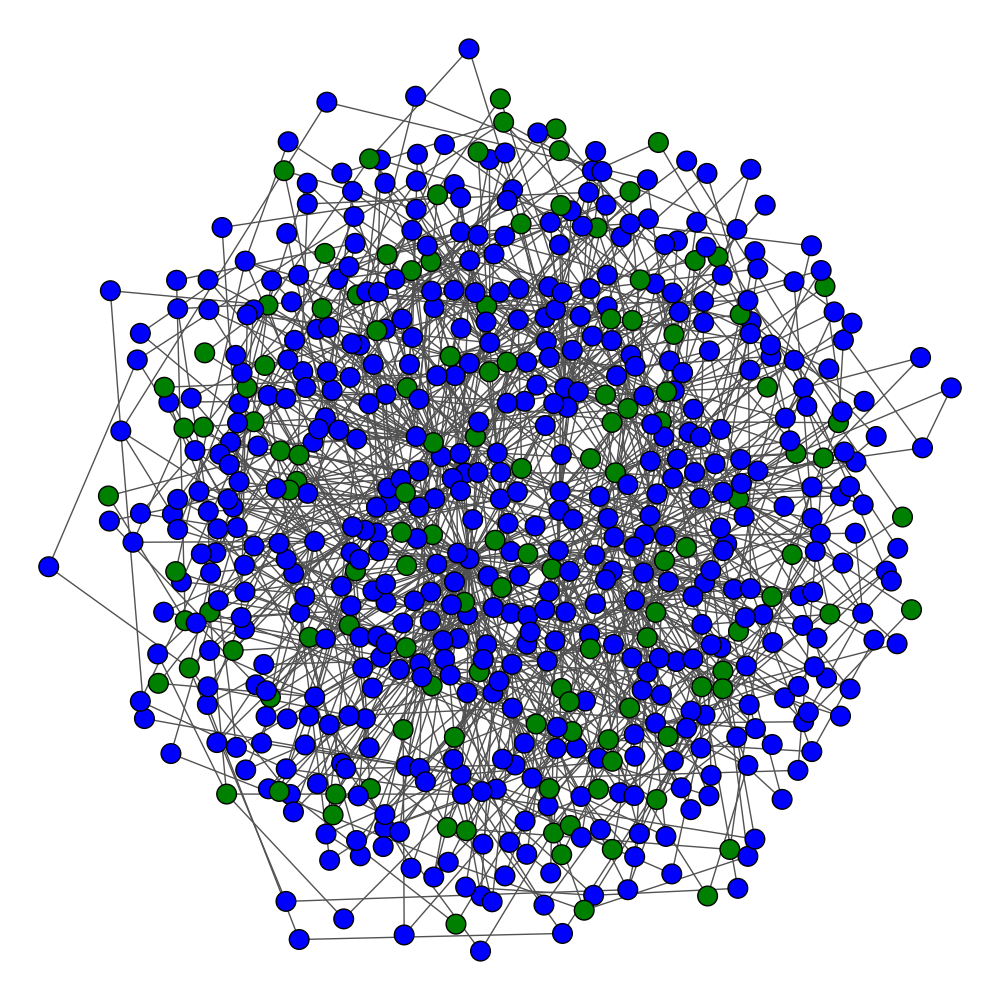
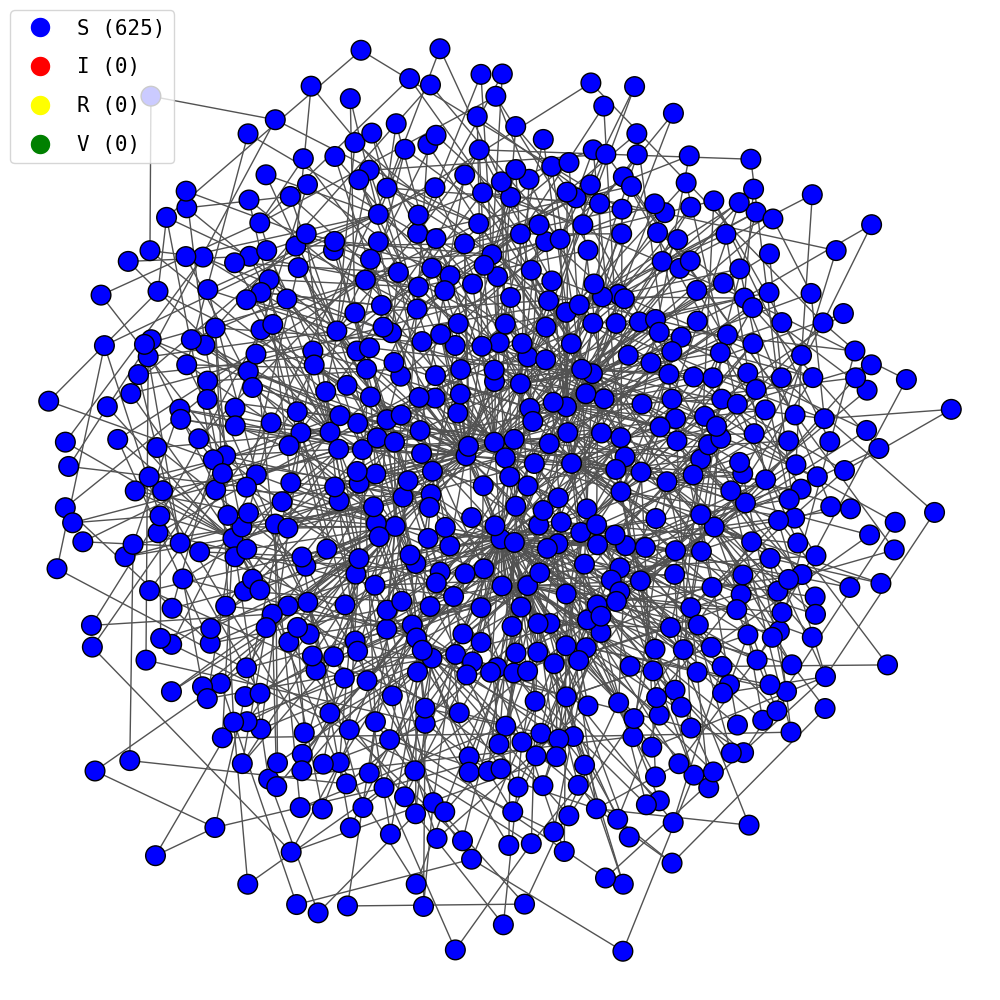
backup changes

diff --git a/proj2/generate_figures.py b/proj2/generate_figures.py
@@ -6,6 +6,11 @@ import graph_modifier as gm
 import networkx as nx
 import time
 import math
+import json
+import pickle
+import matplotlib as mpl
+from matplotlib.lines import Line2D
+mpl.rc('font',family='monospace')
 
 SUSC = 'S'
 INF = 'I'
@@ -16,50 +21,123 @@ network_dict = {
     'ba': lambda n: nx.barabasi_albert_graph(n,2),
     'dms':  gg.create_DMS
 }
-networks = ['ba'] #['ba', 'dms']
+NETWORK = 'dms'
+networks = [NETWORK] #['ba', 'dms']
 betas = [2]#[1.0, 2.0, 4.0, 8.0, 16.0, 32.0]
-Ns = [625] #625, 1250, 2500, 5000, 10000]
+Ns = [10000] #625, 1250, 2500, 5000, 10000]
 frac_vacs = [0.2]#[0, 0.1, 0.2, 0.3, 0.4, 0.5, 0.6, 0.7, 0.8]
 vaccination_methods = [
-#    'hub',
+    'hub',
 #    'realbfs',
 #    'dfs',
 #    'bfs',
-    'rnd',
-    'rdw',
-    'acq'
+#    'rnd',
+#    'rdw',
+#    'acq'
 ]
 gamma = 3
 
-def draw_graph(g, my_pos, filename):
+def draw_graph(g, my_pos, filename, iter_sim = -1):
     d = dict(g.degree)
     color_map = []
+    states = [0,0,0,0] # VAC INF REC SUSC
     for node in g:
         if g.nodes[node]['state'] == VAC:
             color_map.append('green')
+            states[0] +=1
         elif g.nodes[node]['state'] == INF:
             color_map.append('red')
+            states[1] +=1
         elif g.nodes[node]['state'] == REC:
             color_map.append('yellow')
+            states[2] +=1
         else:
-            color_map.append('blue')
+            #color_map.append('blue')
+            color_map.append('black')
+            states[3] +=1
+    edge_color_map = []
+    for edge in g.edges:
+        if ((g.nodes[edge[0]]['state'] == SUSC and g.nodes[edge[1]]['state'] == INF) or
+           (g.nodes[edge[1]]['state'] == SUSC and g.nodes[edge[0]]['state'] == INF)):
+            edge_color_map.append('red')
+        else:
+            edge_color_map.append('#525252')
     plt.figure(figsize=(10,10))
     nx.draw(
         g,
         pos = my_pos,
         edgecolors='black',
         node_color = color_map,
-        node_size=200,
-        edge_color='#525252',
+        node_size = 200,
+        edge_color = edge_color_map,
         #node_size=[v * 50 for v in d.values()]
     )
-    plt.savefig('figures/%s.png' % (filename))
+    legend_els = [
+            Line2D(
+                [0], 
+                [0], 
+                marker='o', 
+                color='w', 
+                label='S (' + str(states[3]) + ')',
+                markerfacecolor='blue', 
+                markersize=15
+            ),
+            Line2D(
+                [0], 
+                [0], 
+                marker='o', 
+                color='w', 
+                label='I (' + str(states[1]) + ')',
+                markerfacecolor='red', 
+                markersize=15
+            ),
+            Line2D(
+                [0], 
+                [0], 
+                marker='o', 
+                color='w', 
+                label='R (' + str(states[2]) + ')',
+                markerfacecolor='yellow', 
+                markersize=15
+            ),
+            Line2D(
+                [0], 
+                [0], 
+                marker='o', 
+                color='w', 
+                label='V (' + str(states[0]) + ')',
+                markerfacecolor='green', 
+                markersize=15
+            ),
+        ]
+    # plt.gca().legend(
+    #         handles=legend_els, 
+    #         loc=2, 
+    #         prop={'size': 15},
+    #         labelspacing=0.90,
+    #         title_fontsize=15,
+    #         title='Simulation %i' %(iter_sim+1)
+    # )
+    plt.savefig('figures/%s.pdf' % (filename))
     plt.clf()
 
 # RUN SIR ONCE
 def run_sir(n, frac, method, beta, network, network_name):    
     g = network(n)
     my_pos = nx.kamada_kawai_layout(g)#, seed = 100)
+
+    # write
+    with open(NETWORK + '.txt', 'wb') as handle:
+      pickle.dump(my_pos, handle)
+    nx.write_gml(g, NETWORK)
+    print('Written')
+
+    # load
+    #g = nx.convert_node_labels_to_integers(nx.read_gml(NETWORK))
+    #with open(NETWORK + '.txt', 'rb') as handle:
+    #    my_pos = pickle.loads(handle.read())
+    #print('Loaden')
+
     nx.classes.function.set_node_attributes(g, SUSC, 'state')
     # vaccinate
     g = gv.methods[method](g, frac)
@@ -67,7 +145,14 @@ def run_sir(n, frac, method, beta, network, network_name):
     draw_graph(g, my_pos, '%s/%s-before' % (network_name, method))
     print('DRAW VAC')
     # sir
-    sir.sir_simulation(g, beta, my_pos, draw_graph)
+    filename = 0
+    for k in range(20):
+        print(filename)
+        filename = sir.sir_simulation(g, beta, my_pos, draw_graph, k, filename)
+        # clean states
+        for node in g:
+            if g.nodes[node]['state'] == REC:
+                g.nodes[node]['state'] = SUSC
     # draw after sir
     draw_graph(g, my_pos, '%s/%s-after' % (network_name, method))
     print('DRAW SIR')
@@ -91,4 +176,16 @@ def draw_all():
                         report = run_sir(n, frac_vac, method, beta, network_dict[network], network)
 
 
-draw_all()
+#draw_all()
+ba = nx.barabasi_albert_graph(50,2)
+dms = gg.create_DMS(50)
+erdos = nx.binomial_graph(50, 0.1)
+arr = [ba, dms, erdos]
+names = ['ba', 'dms', 'erdos']
+
+for i, net in enumerate(arr):
+    my_pos = nx.kamada_kawai_layout(net)
+    nx.classes.function.set_node_attributes(net, SUSC, 'state')
+    draw_graph(net, my_pos, '%sTHESIS' %(names[i]))
+
+

diff --git a/proj2/sir.py b/proj2/sir.py
@@ -10,7 +10,7 @@ INF = 'I'
 REC = 'R'
 VAC = 'V'
 
-def sir_simulation(g, beta, my_pos, draw, seed=None):
+def sir_simulation(g, beta, my_pos, draw, iter_draw = -1, filename = 0, seed=None):
     if seed:
         rnd.seed(seed)
 
@@ -28,7 +28,9 @@ def sir_simulation(g, beta, my_pos, draw, seed=None):
         num_s_i_edges, 
         iter_data,
         my_pos,
-        draw
+        draw,
+        iter_draw,
+        filename
     )
 
 def _sir_simulation_cycle(
@@ -39,17 +41,22 @@ def _sir_simulation_cycle(
     num_s_i_edges, 
     iter_data,
     my_pos,
-    draw
+    draw,
+    iter_draw,
+    filename
 ):
     k = 1
     inf = 0
     rec = 0
     inf_on = False
     changed = 0 
+    fname = filename + k
+    draw(g, my_pos, 'test/%s' % (fname), iter_draw)
     while infected_nodes:
         inf_r = beta * num_s_i_edges
-        if k%10 == 0:
-            draw(g, my_pos, 'test/%s' % (k))
+        #if k%5 == 0:
+        fname = filename + k
+        draw(g, my_pos, 'test/%s' % (fname), iter_draw)
         k += 1
         # if new cycle, record data
         if rnd.random() < 1 / (inf_r + len(infected_nodes)):
@@ -90,7 +97,10 @@ def _sir_simulation_cycle(
                 num_s_i_edges
             )
     print('CHANGED %i' % (changed))
-    return sim_report(iter_data)
+    fname = filename + k
+    draw(g, my_pos, 'test/%s' % (fname), iter_draw)
+    #return sim_report(iter_data)
+    return filename + k
 
 def _neighbour_s_i_edges(g, i_node):
     s_i_edges = []
